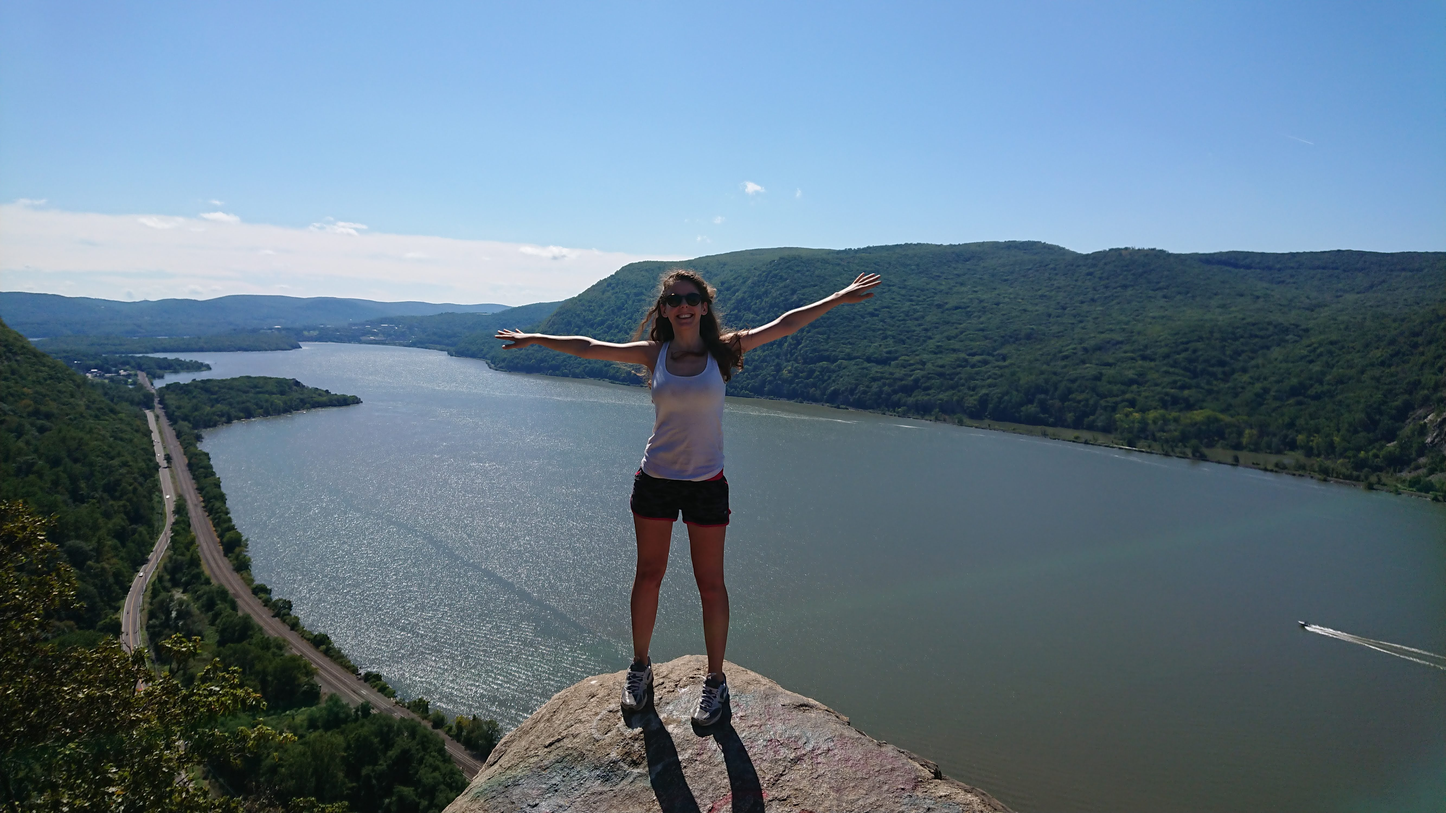
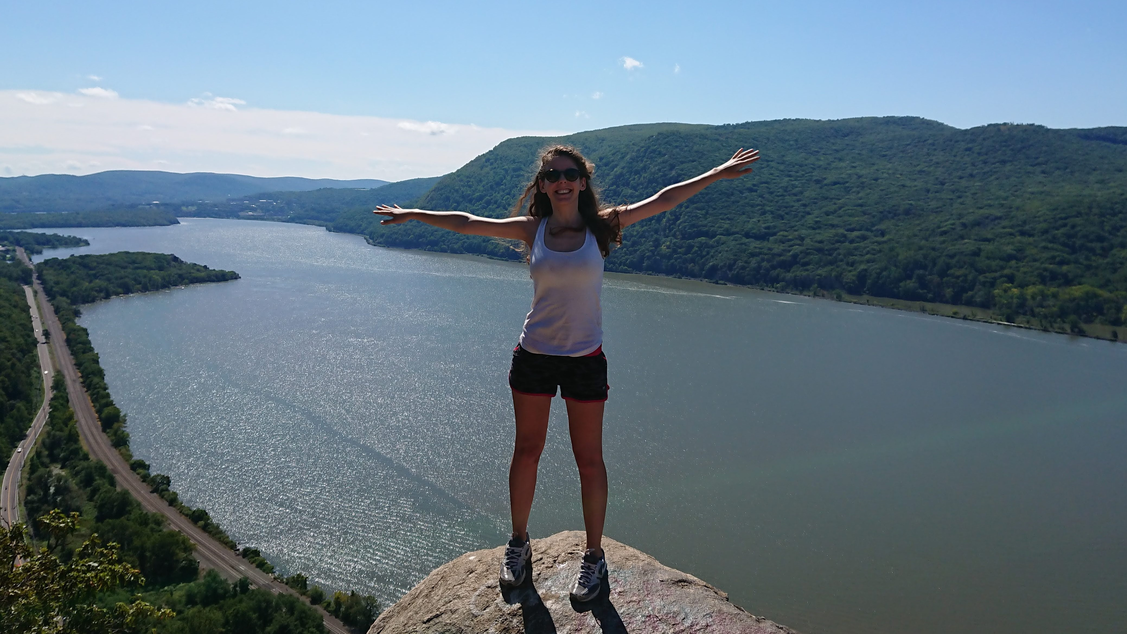
Changed layout of cover picture

diff --git a/client/src/Cover.js b/client/src/Cover.js
@@ -1,8 +1,16 @@
 import React from 'react';
 import cover from './cover.JPG';
 
+const styles = {
+    img: {
+        maxWidth: '100%',
+        height: 'auto',
+        maxHeight: '100%',
+    }
+}
+
 export default function Cover(props) {
   return (
-      <img src={cover} className="App-cover" alt="cover" />
+      <img src={cover} style={styles.img} alt="cover" />
   )
 }
